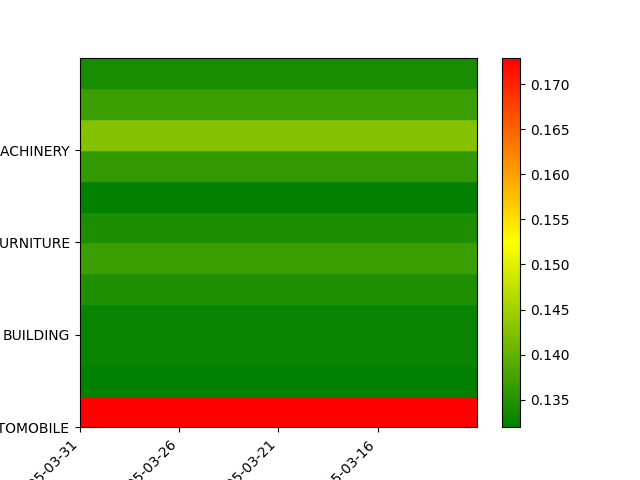
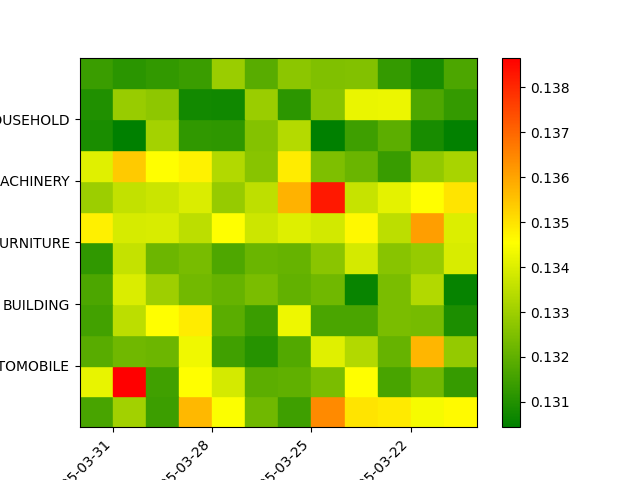
[Update] Plotting Query 3 heatmap

diff --git a/heatmap3.py b/heatmap3.py
@@ -3,7 +3,8 @@ import matplotlib.pyplot as plt
 import matplotlib as mpl
 import numpy as np
 from matplotlib.colors import LinearSegmentedColormap
-from utils import csv_to_data_list, csv_to_values_list
+from qgen import segments, dates_03
+from utils import csv_to_data_list
 # source file
 FILE = 'results/3.csv'
 
@@ -35,16 +36,17 @@ plt.xlim(0,axis_len)
 
 
 # define explicit labels for the x and y axis
-values_x = csv_to_values_list(FILE)[0]
-values_y = csv_to_values_list(FILE)[1]
-
-ax.set_xticks(list(range(0, axis_len, 3)))
+values_x = dates_03
+values_y = segments
+step_y = round(axis_len / len(values_y))
+print(values_y)
+ax.set_xticks(list(range(1, axis_len, 3)))
 ax.set_xticklabels(values_x[0:axis_len:3])
 ax.set_xlabel('order_date')
 plt.xticks(rotation=45, ha='right')
 
-ax.set_yticks(list(range(0, axis_len, 3)))
-ax.set_yticklabels(values_y[0:axis_len:3])
+ax.set_yticks(list(range(2,axis_len,2)))
+ax.set_yticklabels(values_y)
 ax.set_ylabel('mktsegment')
 
 plt.colorbar(mpl.cm.ScalarMappable(norm=norm, cmap=cmap), ax=ax)

diff --git a/csv_to_values_list.py b/csv_to_values_list.py
@@ -1,5 +1,4 @@
 import csv
-from heatmap3 import axis_len
 
 values_x: list[str] = []
 values_y: list[str] = []
@@ -7,16 +6,12 @@ values_y: list[str] = []
 with open('results/3.csv', encoding='UTF8') as file:
     csv_data = list(csv.reader(file, delimiter=';'))
 
-for i in range(len(csv_data)):
-        values_y.append(str(csv_data[i][1]))
-        values_x.append(str(csv_data[i][2]))
+for i, row in enumerate(csv_data):
+    #values_y.append(str(csv_data[i][1]))
+    values_y.append(row[1])
+    values_x.append(row[2])
 
-step_list = len(values_x) // axis_len
-values_x = [values_x[i] for i in range(0,len(values_x), step_list)][:axis_len]
-values_y = [values_y[i] for i in range(0,len(values_y), step_list)][:axis_len]
-
-
-
-print(len(values_x))
-
-
+# step_list = len(values_x) // axis_len
+#values_x = [values_x[i] for i in range(0,len(values_x), step_list)][:axis_len]
+#values_y = [values_y[i] for i in range(0,len(values_y), step_list)][:axis_len]
+print(len(values_y))
